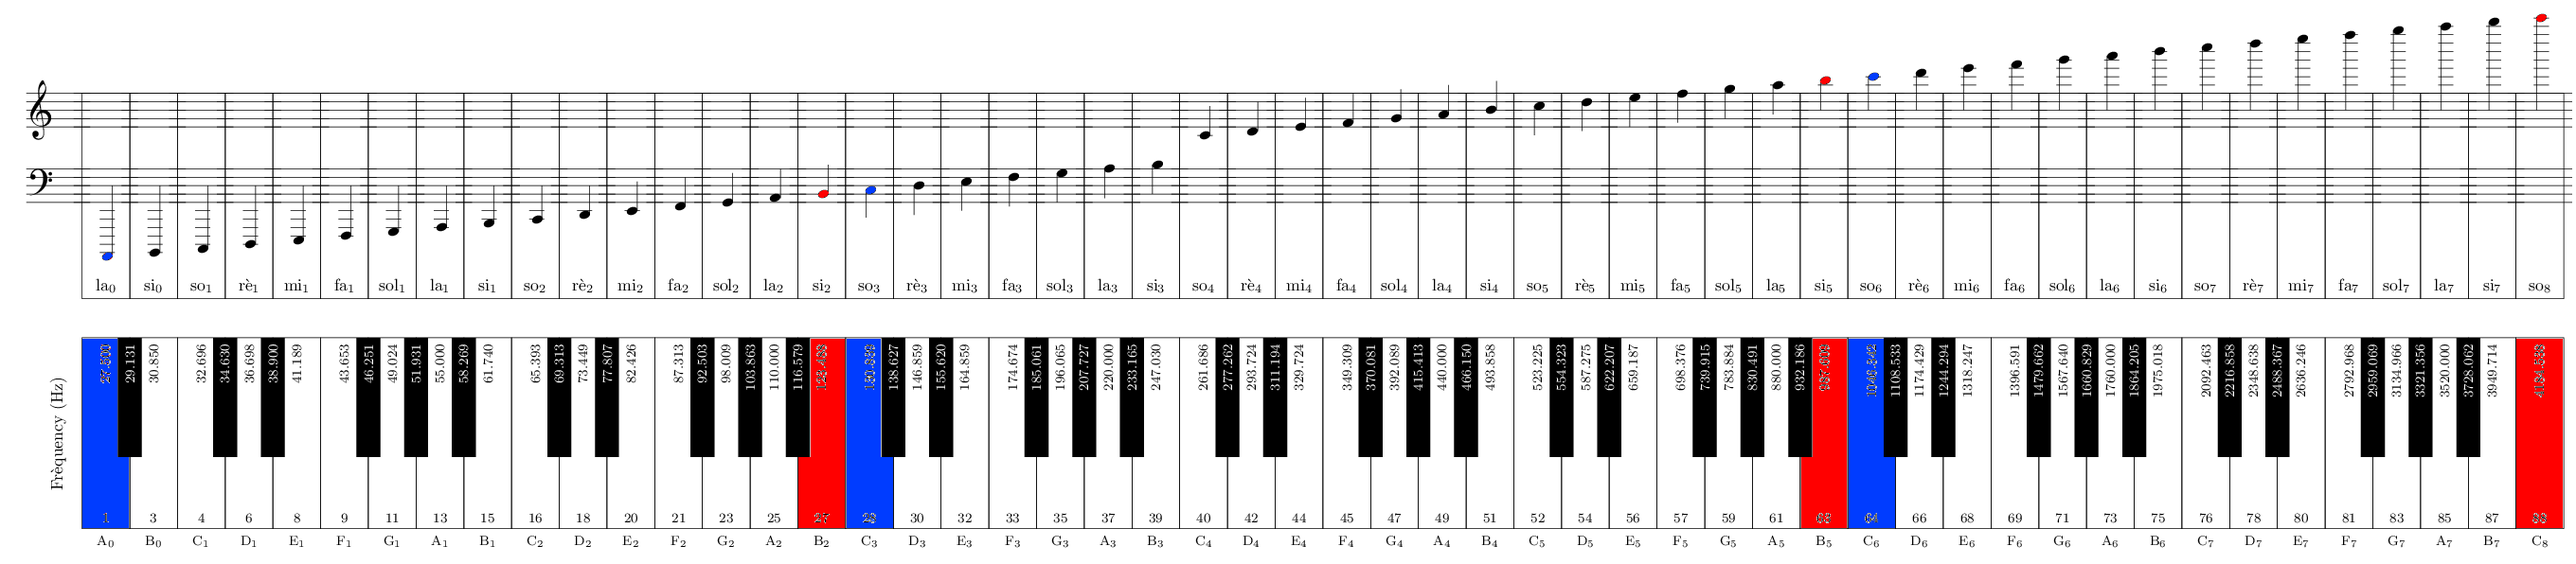
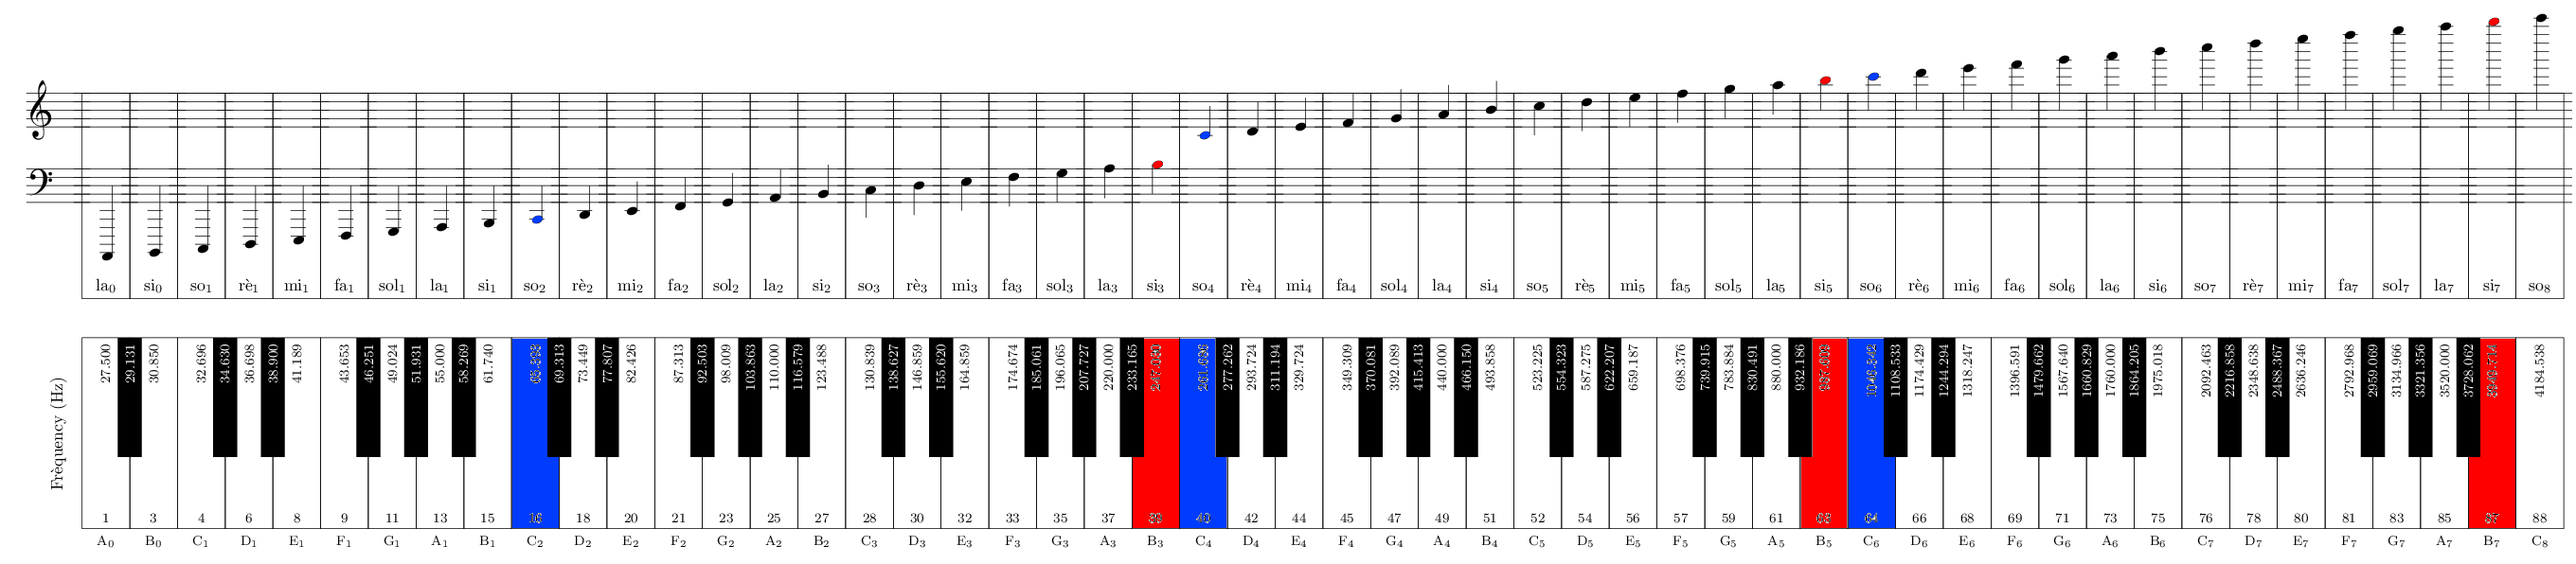
Marked the first task as done and changed the ranges of the level.

diff --git a/Readme.md b/Readme.md
@@ -10,16 +10,16 @@ These are our [Project Goals](#project-goals).
 We try to stick to this [Code of Conduct](#code-of-conduct).
 
 ## TODOS
-- [ ] Initialise Project.
+- [x] Initialise Project.
     - [x] Gradle init
     - [x] Git init
     - [x] Copy this readme.
     - [x] Add .gitignore.
     - [x] Add .gitattributes.
     - [x] Add already defined deps.
-    - [ ] Create predefined directory structure.
-    - [ ] Write first classes.
-    - [ ] Write first tests.
+    - [x] Create predefined directory structure.
+    - [x] Write first classes.
+    - [x] Write first tests.
     - [x] Push to github.
 - [ ] Create the Project Dossier for MSI.
     - [ ] Add a Project Description 1/4 page.
@@ -97,11 +97,11 @@ The blue keys indicate the start of a range whereas the red keys indicate the en
 The pitches are listed in [Scientific Pitch Notation](https://en.wikipedia.org/wiki/Scientific_pitch_notation).
 
 - The low range spans from the zeroth octave to the second.
-(A0-B2)
+(C2-B3)
 - The middle range spans from the third octave to the fifth octave.
-(C3-B5)
+(C4-B5)
 - The high range spans from the sixth to the eigth octave.
-(C6-B8)
+(C6-B7)
 
 #### Instruments
 
@@ -123,9 +123,9 @@ This is a knob that we can not turn, the default orders are:
 
 Interval | Range | Order | Instrument
 ---------|-------|-------|-----------
-perfect fifth | low (A0 - B2) | upwards | piano
-perfect fourth | middle (C3 - B5) | downwards | strings
-perfect octave | high (C6 - B8) | at the same time | brass
+perfect fifth | low (C2 - B3) | upwards | piano
+perfect fourth | middle (C4 - B5) | downwards | strings
+perfect octave | high (C6 - B7) | at the same time | brass
 
 
 [//]: # (@TODO: Refactor this into a project description part)
@@ -202,8 +202,8 @@ A higher level library could be jFugue:
 - [x] Discuss level design.
 - [x] Familiarise oneself with javafx.
 - [ ] Familiarise oneself with jFugue.
-- [ ] Define project structure. -> Define rough class structure.
-- [ ] Implement basic classes.
+- [x] Define project structure. -> Define rough class structure.
+- [x] Implement basic classes.
 - [ ] Write project description for MSI.
 - [ ] Create some UML diagrams from the rough project structure.
 
